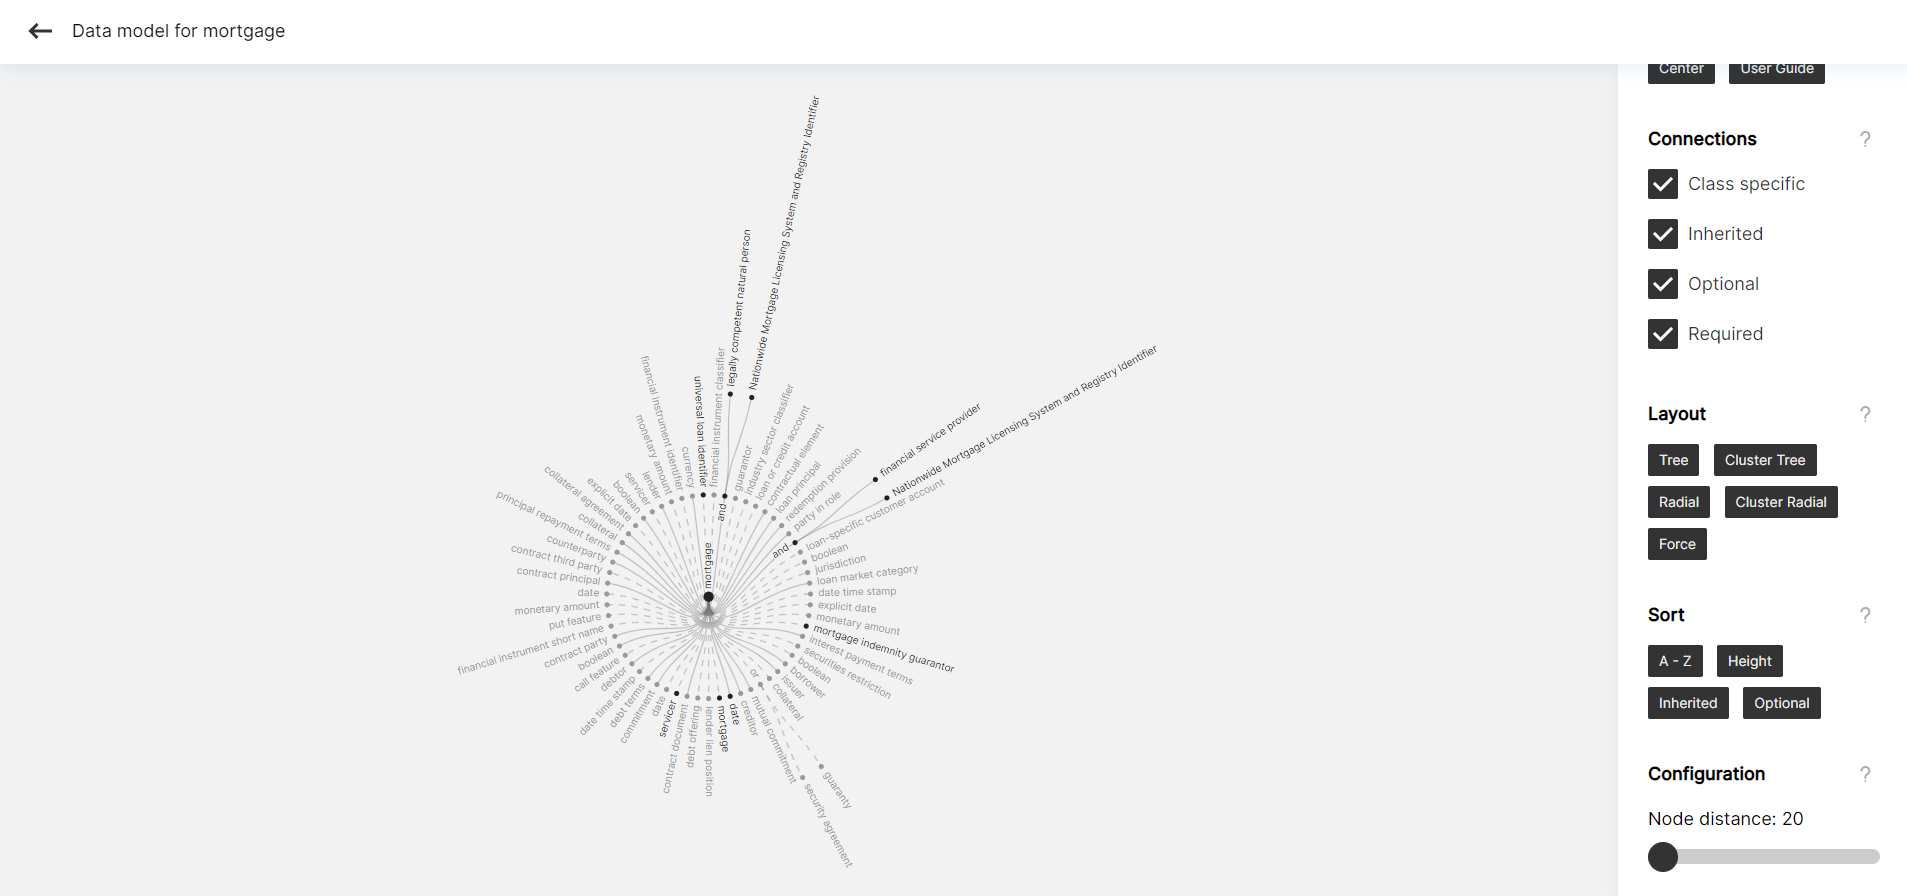
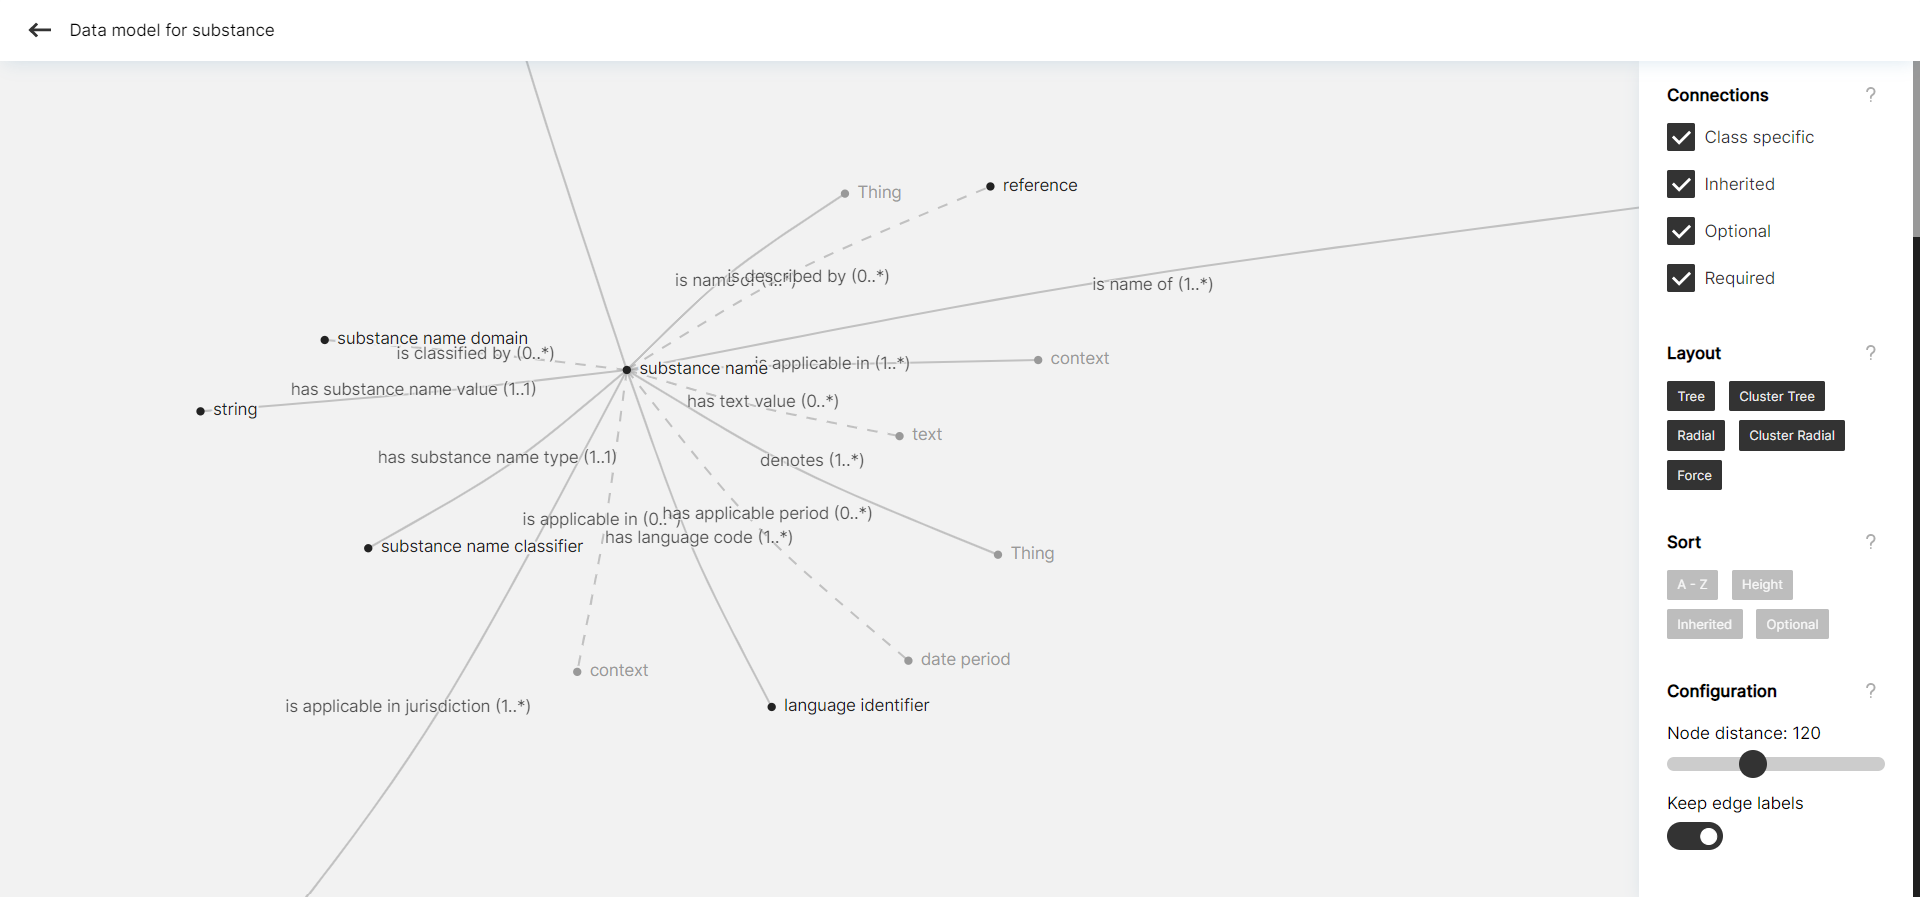
Add "Keep edge labels" toggle

diff --git a/general/helpers/ontograph.js b/general/helpers/ontograph.js
@@ -5,6 +5,8 @@ export class Ontograph {
   transitionSpeed = 400;
   mouseoverTransitionSpeed = 300;
   distance = 50;
+  keepLabels = false;
+  labelOpacity = 0.8;
   alertId = 0;
   filters = {
     external: true,
@@ -144,7 +146,7 @@ export class Ontograph {
             .attr("stroke-width", "1px")
             .attr("text-anchor", "middle")
             .attr("fill", "#222")
-            .attr("opacity", "0")
+            .attr("opacity", this.keepLabels ? this.labelOpacity : "0")
             .attr("pointer-events", "none")
             .text((d) => d.target.data.pathLabel)
             .each((d, i) => {
@@ -175,7 +177,7 @@ export class Ontograph {
             .attr("stroke-width", "1px")
             .attr("text-anchor", "middle")
             .attr("fill", "#222")
-            .attr("opacity", "0")
+            .attr("opacity", this.keepLabels ? this.labelOpacity : "0")
             .attr("pointer-events", "none")
             .text((d) => d.target.data.pathLabel)
             .each((d, i) => {
@@ -292,7 +294,7 @@ export class Ontograph {
                 .transition()
                 .duration(0)
                 .attr("opacity", (l) =>
-                  l == d.data.linkLabelElement ? "1" : "0"
+                  l == d.data.linkLabelElement ? "1" : this.keepLabels ? this.labelOpacity : "0"
                 );
               this.node
                 .transition()
@@ -446,6 +448,15 @@ export class Ontograph {
     else if (this.layout === "force") this.toForce();
   }
 
+  keepLabelsUpdate(value) {
+    this.keepLabels = value;
+
+    this.linkLabels
+      .transition()
+      .duration(this.mouseoverTransitionSpeed)
+      .attr("opacity", this.keepLabels ? this.labelOpacity : "0");
+  }
+
   blurHighlight() {
     this.link
       .transition()
@@ -454,7 +465,7 @@ export class Ontograph {
     this.linkLabels
       .transition()
       .duration(this.mouseoverTransitionSpeed)
-      .attr("opacity", "0");
+      .attr("opacity", this.keepLabels ? this.labelOpacity : "0");
     this.node
       .transition()
       .duration(this.mouseoverTransitionSpeed)

diff --git a/general/components/Ontology/GraphVisualization.vue b/general/components/Ontology/GraphVisualization.vue
@@ -319,10 +319,26 @@
             @click="openGuide('guide-configuration')"
           ></div>
         </div>
-        <div>
-          <div>
+        <div class="configuration-container">
+          <div class="configuration-distance">
             <p>Node distance: {{ distanceValue }}</p>
-            <input v-model="distanceValue" type="range" min="20" max="200" step="2" class="custom-slider" @change="handleDistanceUpdate()">
+            <input v-model="distanceValue" type="range" min="10" max="300" step="2" class="custom-slider" @input="handleDistanceUpdate()">
+          </div>
+          <div class="configuration-labels">
+            <p>Keep edge labels</p>
+            <div class="custom-control custom-switch">
+              <input
+                type="checkbox"
+                class="custom-control-input"
+                id="keep-labels-switch"
+                v-model="isKeepLabels"
+                @change="handleKeepLabelsUpdate()"
+              />
+              <label
+                class="custom-control-label"
+                for="keep-labels-switch"
+              ></label>
+            </div>
           </div>
         </div>
       </div>
@@ -362,6 +378,7 @@ export default {
       required: true,
 
       distanceValue: 50,
+      isKeepLabels: false,
 
       alerts: [],
     };
@@ -411,6 +428,9 @@ export default {
     },
     handleDistanceUpdate() {
       this.ontograph.distanceUpdate(this.distanceValue);
+    },
+    handleKeepLabelsUpdate() {
+      this.ontograph.keepLabelsUpdate(this.isKeepLabels);
     },
     filterHandler() {
       this.ontograph.filter({
@@ -629,6 +649,17 @@ export default {
 
 .control-panel {
   padding: 30px;
+
+  .configuration-container {
+    .custom-switch {
+      margin-top: 5px;
+    }
+
+    .custom-slider {
+      margin-top: 10px;
+      margin-bottom: 20px;
+    }
+  }
 
   &.control-panel--minimal {
     .layouts-and-guide-container {

diff --git a/general/components/Ontology/GraphGuide.vue b/general/components/Ontology/GraphGuide.vue
@@ -690,6 +690,12 @@
 
           <h2>2. Node distance</h2>
           <p>Node distance range slider determines how far nodes are placed from each other.</p>
+
+          <h2>3. Keep edge labels</h2>
+          <p>
+            The user can toggle between the edge labels being always visible or
+            if they should hide when user is not hovering over related entity.
+          </p>
         </article>
       </template>
     </GraphGuideModal>

diff --git a/general/assets/scss/global.scss b/general/assets/scss/global.scss
@@ -212,7 +212,7 @@ $normal-button-disabled-bg: rgba(0, 0, 0, 0.4);
   background: map-get($colors-map, "black-20");
   outline: none;
   border-radius: 15px;
-  margin-top: 15px;
+  margin-top: 5px;
 }
 
 .custom-slider::-webkit-slider-thumb {
